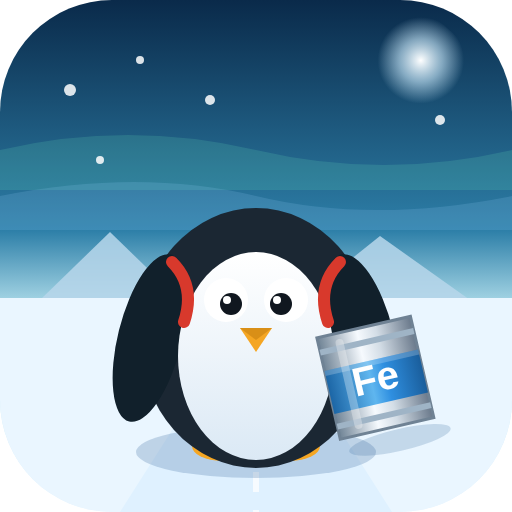
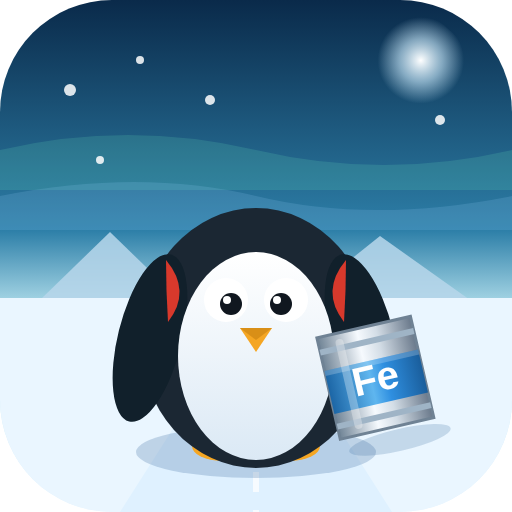
아이콘 벨트 끝 얇은 반달(바깥쪽) + 게임 펭귄 머리·몸통 자연 연결
- 아이콘: 배낭 벨트를 흰 배 안 건드리게 더 바깥으로, 끝 얇고 가운데 볼록한 반달(채운 도형)
- 게임 펭귄 뒷모습: 머리+몸통을 가운데가 살짝 잘록한 한 덩어리(박 모양)로 그려
  머리-몸통 단차 없이 자연스럽게 연결(아이콘 펭귄과 결 맞춤)
- 아이콘 PNG/파비콘 재생성. 캐시 v=45

Changed region(s): [[0.5938, 0.5, 0.6875, 0.6562], [0.3125, 0.5, 0.4062, 0.6562]]

diff --git a/js/game.js b/js/game.js
@@ -2275,17 +2275,18 @@
     ctx.moveTo(-4, 2); ctx.lineTo(-1.3, 10.5); ctx.lineTo(-0.3, 3);
     ctx.lineTo(0.3, 3); ctx.lineTo(1.3, 10.5); ctx.lineTo(4, 2);
     ctx.closePath(); ctx.fill();
-    // 몸통(등) + 테두리
-    const bg = ctx.createLinearGradient(-8, -23, 8, 5);
+    // 머리+몸통 한 덩어리(자연스러운 연결) — 가운데가 살짝 잘록한 박 모양
+    const bg = ctx.createLinearGradient(-9, -30, 9, 6);
     bg.addColorStop(0, "#33455a"); bg.addColorStop(0.5, "#22303f"); bg.addColorStop(1, "#101a24");
     ctx.fillStyle = bg; ctx.strokeStyle = "rgba(10,16,24,0.5)"; ctx.lineWidth = 0.8;
-    ctx.beginPath(); ctx.ellipse(0, -8, 12.5, 13, 0, 0, Math.PI * 2); ctx.fill(); ctx.stroke();   // 통통한 몸
-    // 목/어깨 — 머리 아래를 몸통과 매끄럽게 연결(단차 제거)
-    ctx.fillStyle = bg;
     ctx.beginPath();
-    ctx.moveTo(-8, -19); ctx.quadraticCurveTo(-11.5, -15, -11.5, -9);
-    ctx.lineTo(11.5, -9); ctx.quadraticCurveTo(11.5, -15, 8, -19);
-    ctx.closePath(); ctx.fill();
+    ctx.moveTo(0, -29);
+    ctx.bezierCurveTo(8.6, -29, 9, -21, 8, -14.5);     // 머리 우측 → 목
+    ctx.bezierCurveTo(11.6, -13, 13, -2, 11, 3.5);     // 몸통 우측
+    ctx.bezierCurveTo(8, 8.5, -8, 8.5, -11, 3.5);      // 아래 둥글게
+    ctx.bezierCurveTo(-13, -2, -11.6, -13, -8, -14.5); // 몸통 좌측 → 목
+    ctx.bezierCurveTo(-9, -21, -8.6, -29, 0, -29);     // 머리 좌측 → 정수리
+    ctx.closePath(); ctx.fill(); ctx.stroke();
     // 등 림라이트(부드러운 광택)
     ctx.fillStyle = "rgba(160,195,225,0.3)"; ctx.beginPath(); ctx.ellipse(-3.5, -12, 4, 7.5, -0.25, 0, Math.PI * 2); ctx.fill();
     // 빨간 배낭(등) — 캔이 늘수록 홀쭉 → 뚱뚱하게 부푼다
@@ -2316,11 +2317,7 @@
     ctx.fillStyle = "#c92f2f"; ctx.beginPath();
     ctx.moveTo(6, -14); ctx.lineTo(11.5 + flap * 4, -9 + flap * 7); ctx.lineTo(8, -12.5); ctx.closePath(); ctx.fill();
     ctx.fillStyle = "#ff6b6b"; ctx.beginPath(); ctx.arc(0, -15.5, 1.7, 0, Math.PI * 2); ctx.fill();
-    // 뒤통수(둥글게) — 윗부분만 외곽선(아래는 몸통과 자연스럽게 이어짐)
-    ctx.fillStyle = "#1b2733";
-    ctx.beginPath(); ctx.arc(0, -20, 8.4, 0, Math.PI * 2); ctx.fill();
-    ctx.strokeStyle = "rgba(10,16,24,0.5)"; ctx.lineWidth = 0.8;
-    ctx.beginPath(); ctx.arc(0, -20, 8.4, Math.PI * 1.04, Math.PI * 1.96, false); ctx.stroke();   // 위쪽 호만
+    // 둥근 뒤통수 하이라이트(머리 입체감)
     ctx.fillStyle = "rgba(150,185,215,0.25)"; ctx.beginPath(); ctx.arc(-2.8, -22, 3.2, 0, Math.PI * 2); ctx.fill();
     ctx.restore();
   }

diff --git a/index.html b/index.html
@@ -16,7 +16,7 @@
   <meta name="apple-mobile-web-app-status-bar-style" content="black-translucent" />
   <meta name="apple-mobile-web-app-title" content="원소 슈터" />
 
-  <link rel="stylesheet" href="css/style.css?v=44" />
+  <link rel="stylesheet" href="css/style.css?v=45" />
 </head>
 <body>
   <div id="game-wrap">
@@ -95,7 +95,7 @@
     </div>
   </div>
 
-  <script src="js/elements.js?v=44"></script>
-  <script src="js/game.js?v=44"></script>
+  <script src="js/elements.js?v=45"></script>
+  <script src="js/game.js?v=45"></script>
 </body>
 </html>
